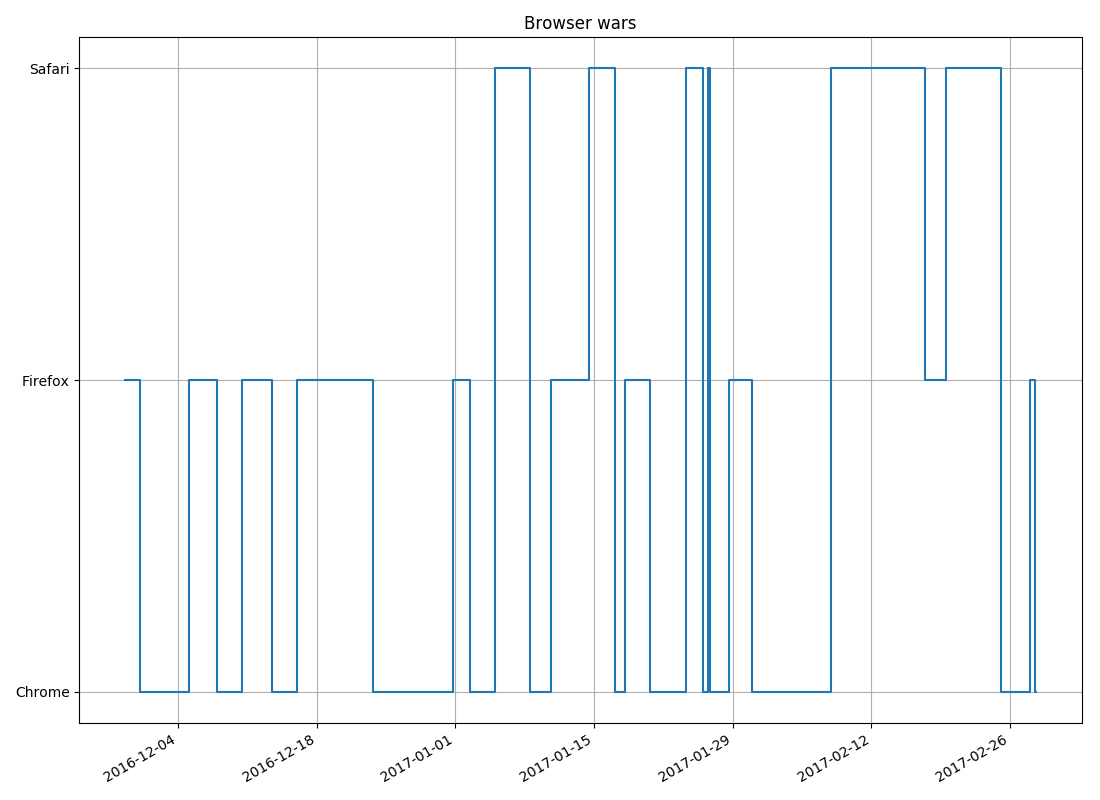
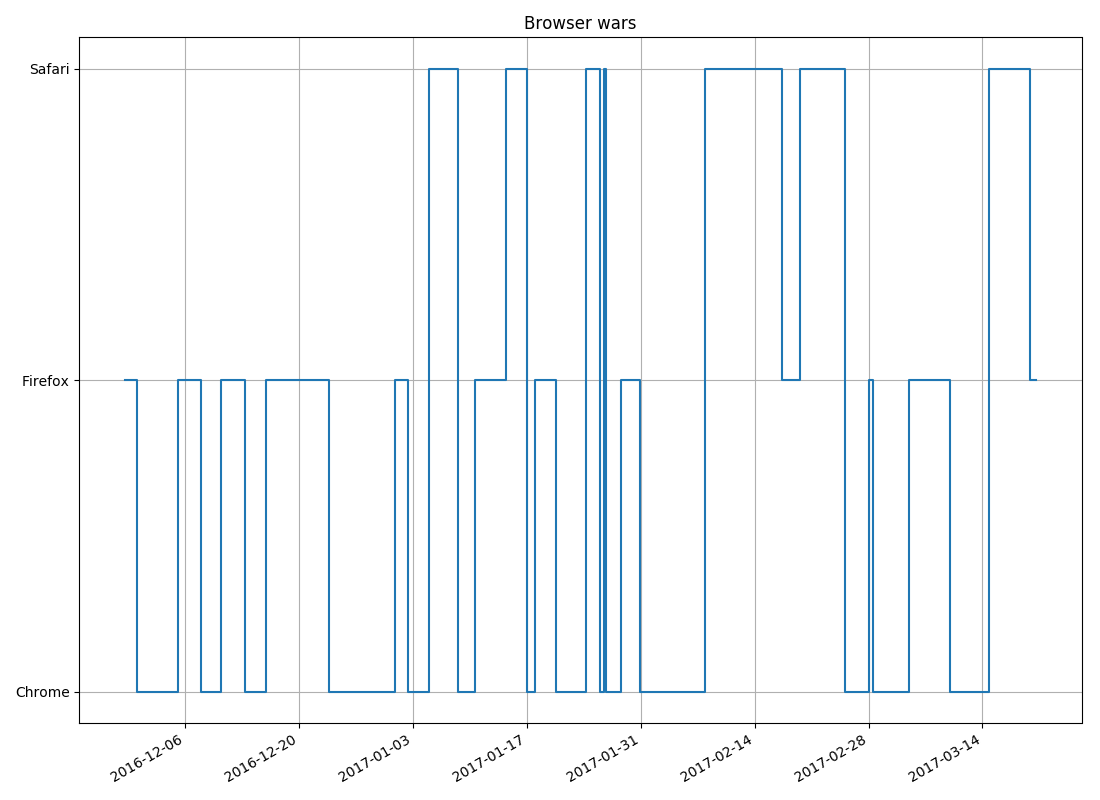
Automatically get the log entries
Also ignore the data itself

diff --git a/analysis.py b/analysis.py
@@ -46,7 +46,7 @@ def extract_meta(browser):
         for line in infile:
             line = line.strip()
             words = line.split()
-            sha = words[1]
+            sha = words[0]
 
             yield extract_meta_from_sha(sha)
 
